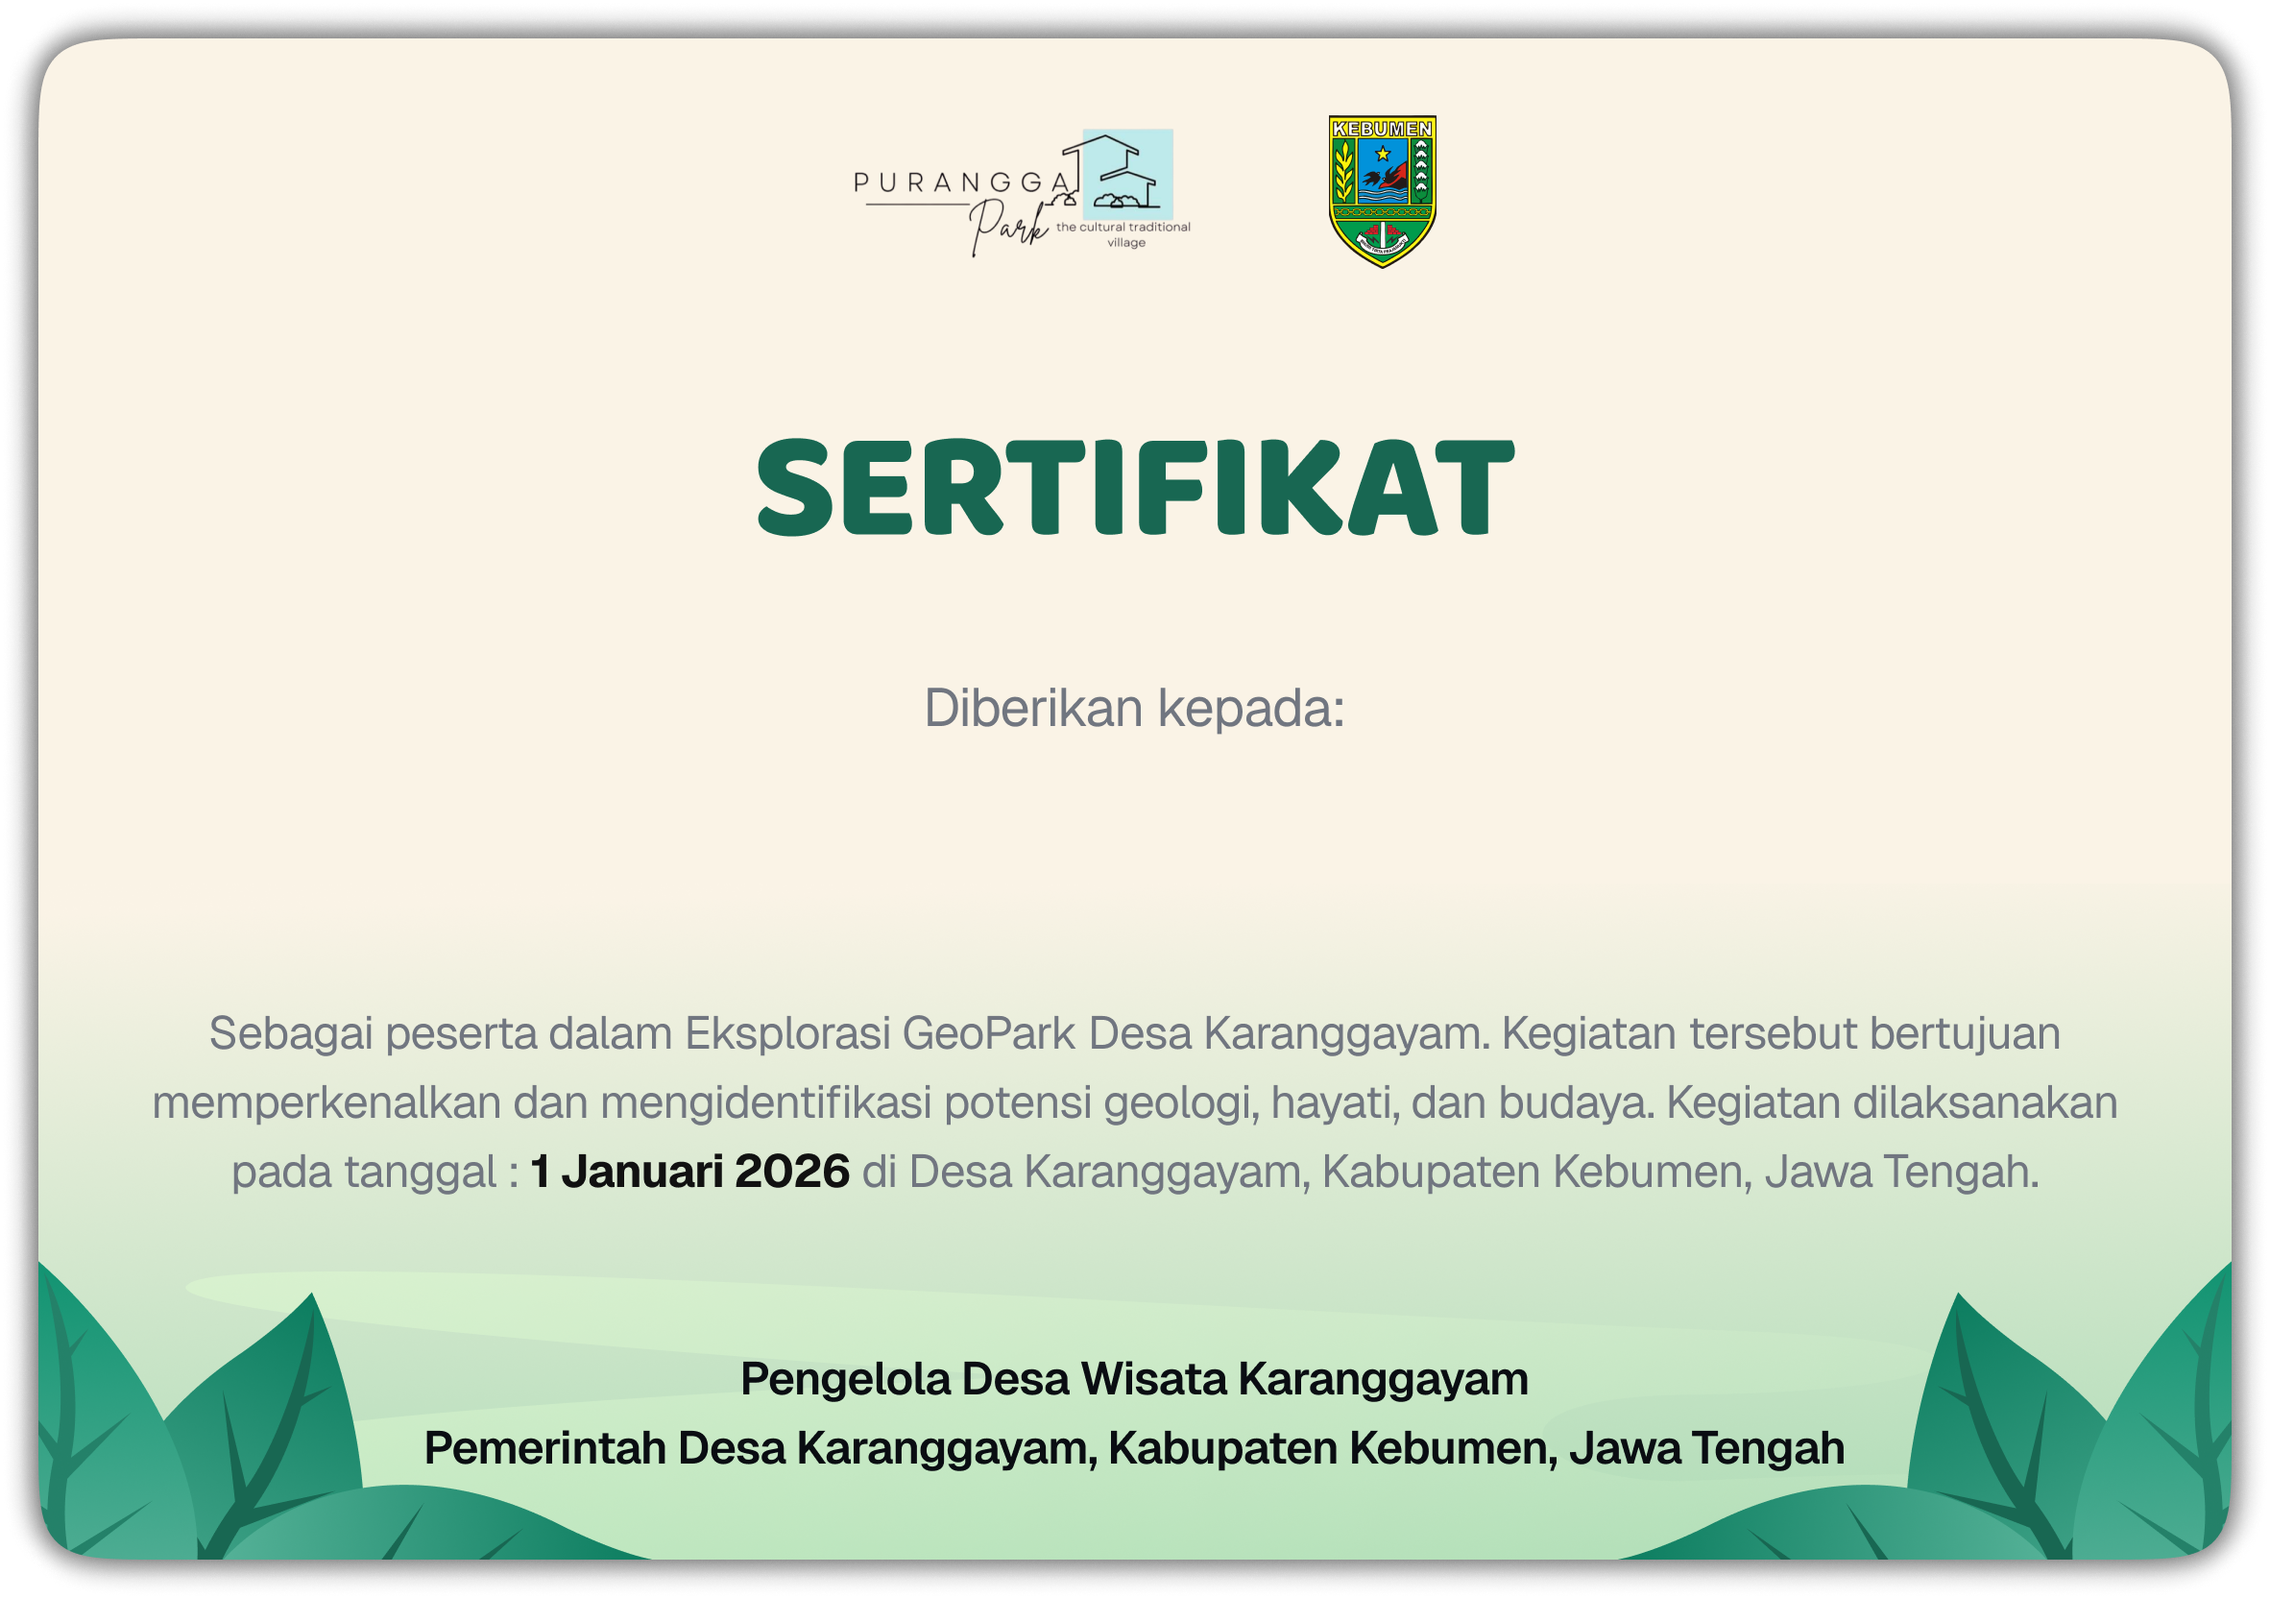
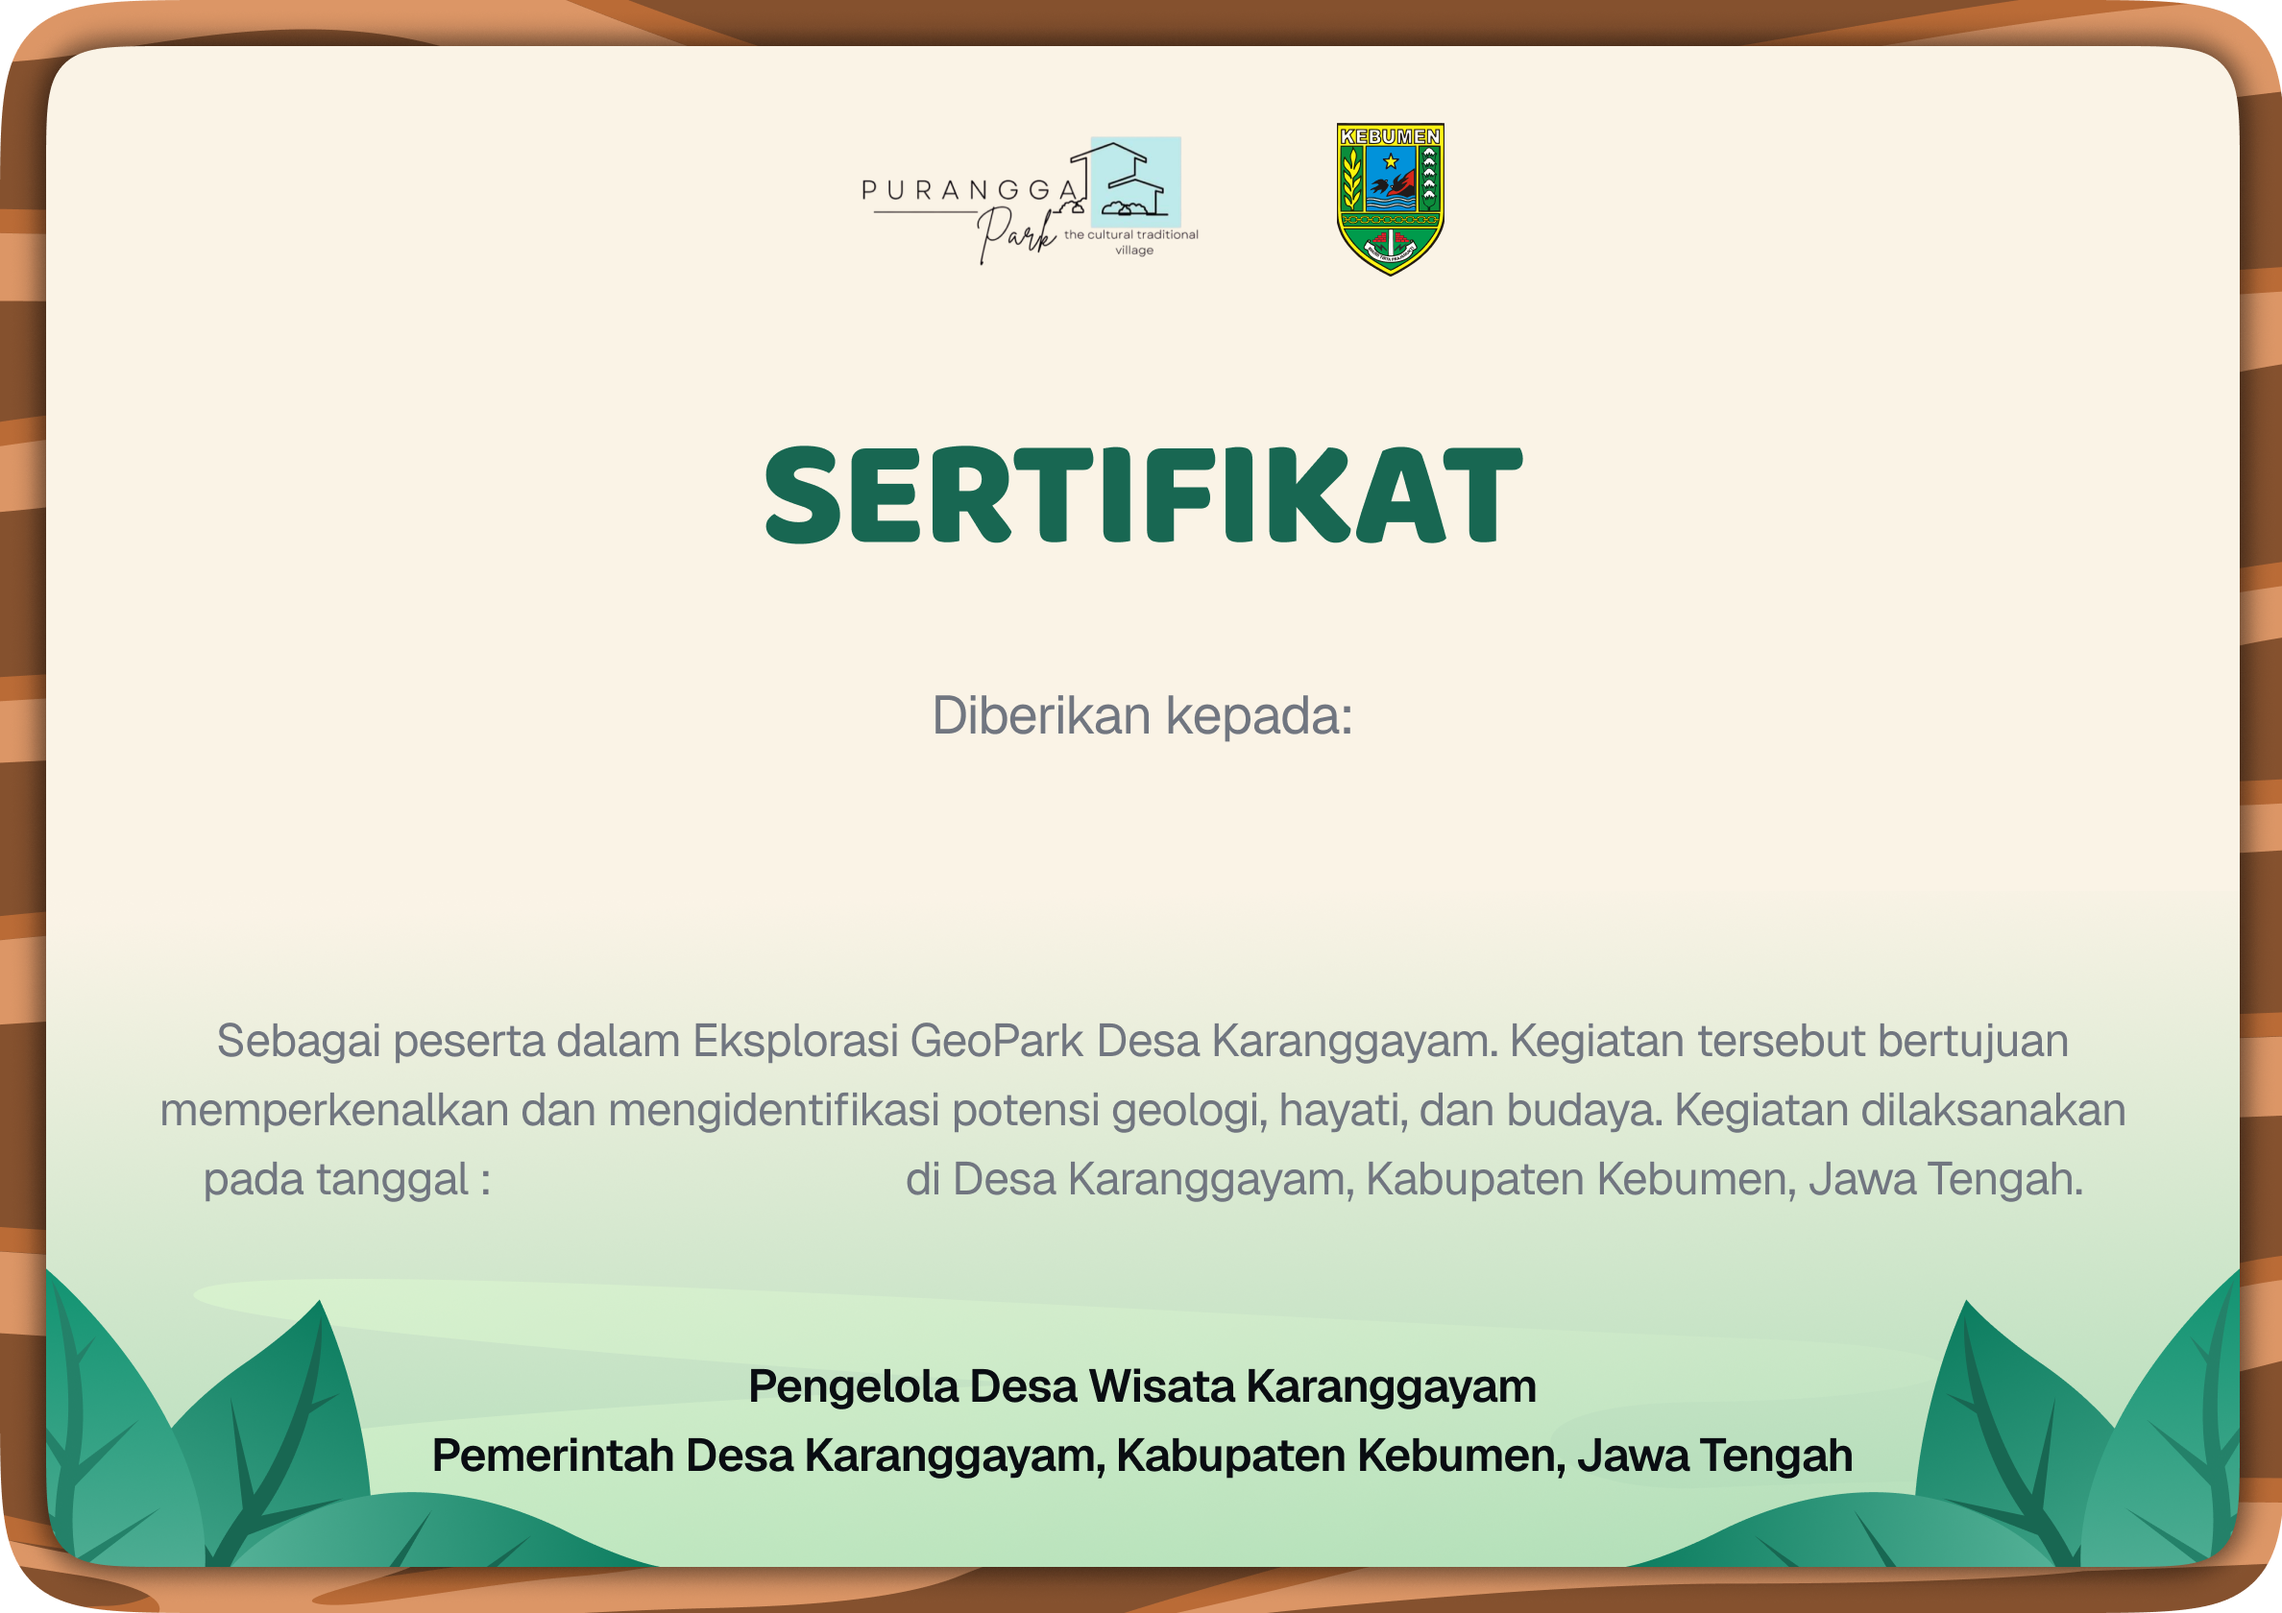
update logic sertifikat

diff --git a/app/Http/Controllers/API/CertificateController.php b/app/Http/Controllers/API/CertificateController.php
@@ -50,13 +50,13 @@ class CertificateController extends Controller
         //     $font->valign('middle');
         // });
 
-        // $img->text($text4, $x, 1225, function ($font) use ($geist) {
-        //     $font->filename(public_path($geist)); 
-        //     $font->size(45);
-        //     $font->color('#717680');
-        //     $font->align('center'); 
-        //     $font->valign('middle');
-        // });
+        $img->text($tanggal, 720, 1225, function ($font) use ($geist) {
+            $font->filename(public_path($geist)); 
+            $font->size(45);
+            $font->color('#000');
+            $font->align('center'); 
+            $font->valign('middle');
+        });
 
         return $img->encodeByExtension('png');
     }
@@ -85,8 +85,22 @@ class CertificateController extends Controller
 
     public function popup()
     {
-        return response()->json([
-            'show' => true
-        ], 200);
+        $sertifikat = Sertifikat::where('user_id', auth('api')->user()->id)
+            ->where('show', true)
+            ->latest()
+            ->first();
+            
+        if ($sertifikat) {
+            $sertifikat->update(['show' => false]);
+            return response()->json([
+                'show' => true,
+                'id' => $sertifikat->id
+            ], 200);
+        } else {
+            return response()->json([
+                'show' => false,
+                'id' => null
+            ], 200);
+        }
     }
 }

diff --git a/database/migrations/2025_12_15_161849_add_column_to_sertifikat_table.php b/database/migrations/2025_12_15_161849_add_column_to_sertifikat_table.php
@@ -1,0 +1,28 @@
+<?php
+
+use Illuminate\Database\Migrations\Migration;
+use Illuminate\Database\Schema\Blueprint;
+use Illuminate\Support\Facades\Schema;
+
+return new class extends Migration
+{
+    /**
+     * Run the migrations.
+     */
+    public function up(): void
+    {
+        Schema::table('sertifikat', function (Blueprint $table) {
+            $table->boolean('show')->default(true)->after('tanggal');
+        });
+    }
+
+    /**
+     * Reverse the migrations.
+     */
+    public function down(): void
+    {
+        Schema::table('sertifikat', function (Blueprint $table) {
+            $table->integer('show')->default(1)->comment('0 = hide, 1 = show');
+        });
+    }
+};

diff --git a/app/Models/Sertifikat.php b/app/Models/Sertifikat.php
@@ -8,6 +8,9 @@ class Sertifikat extends Model
 {
     protected $guarded = ['id'];
     protected $table = 'sertifikat';
+    protected $casts = [
+        'show' => 'boolean',
+    ];
 
     public function user()
     {
